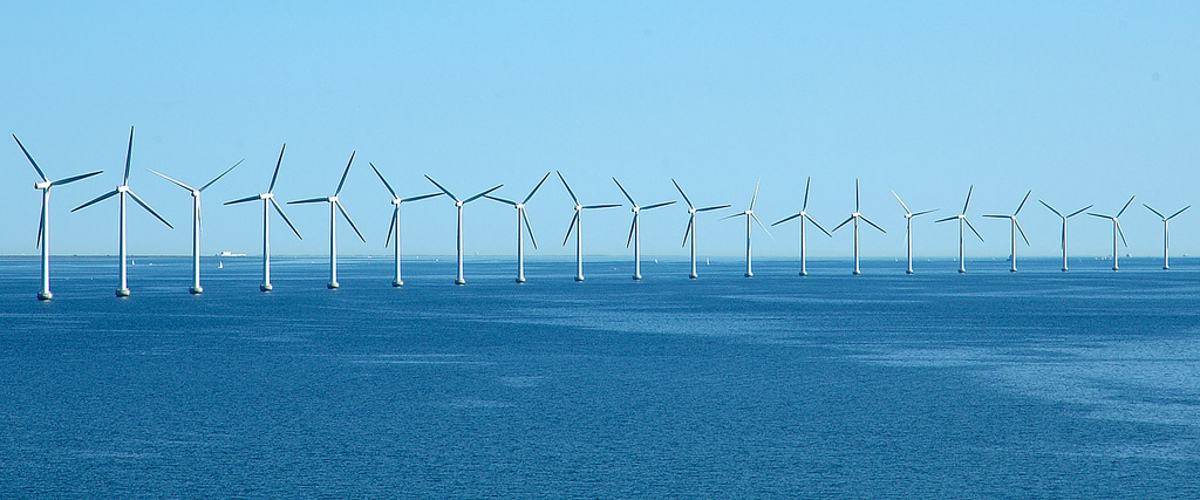
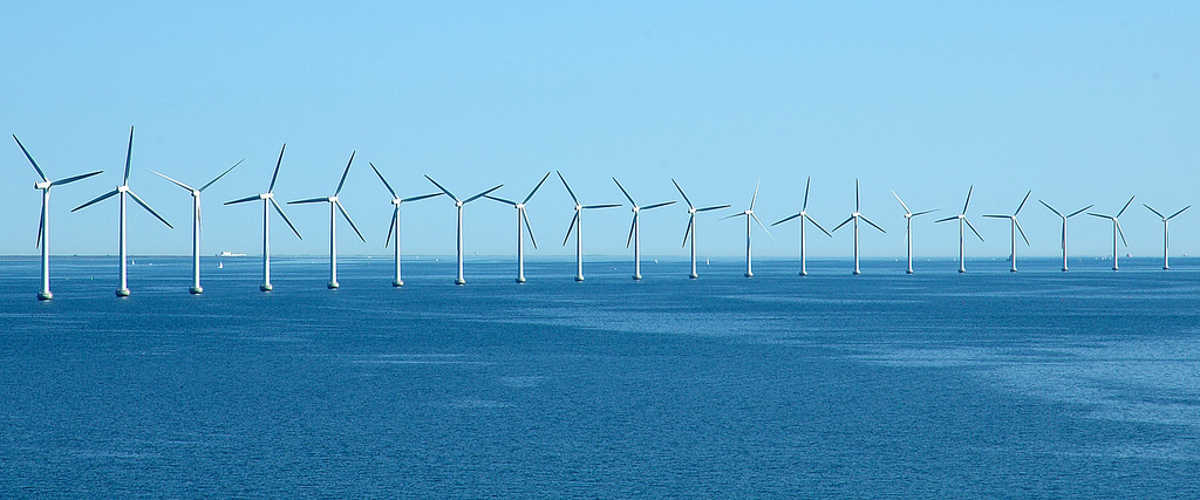
reducing quality of images

diff --git a/_posts/experience/2012-05-14-aquatic-priorities.md b/_posts/experience/2012-05-14-aquatic-priorities.md
@@ -6,8 +6,8 @@ tag: [feature]
 application: http://aquatic-priorities.apps.ecotrust.org/
 repo: https://github.com/Ecotrust/aquatic-priorities
 blurb: U.S. Fish and Wildlife Service wanted to see the big picture of conservation and restoration work at the sub-basin scale across the Pacific Northwest.
-image: /assets/img/experience/aqua-priorities.png
-image-carousel: /assets/img/experience/aqua-priorities.png
+image: /assets/img/experience/aqua-priorities.jpg
+image-carousel: /assets/img/experience/aqua-priorities.jpg
 technology: ["Madrona framework", "Google Earth", "Marxan conservation planning software"]
 name: Mike Mertens
 phone: 503-467-0775
